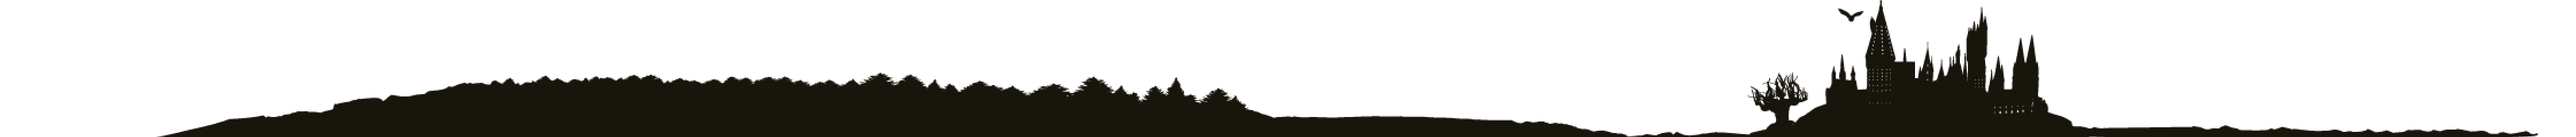
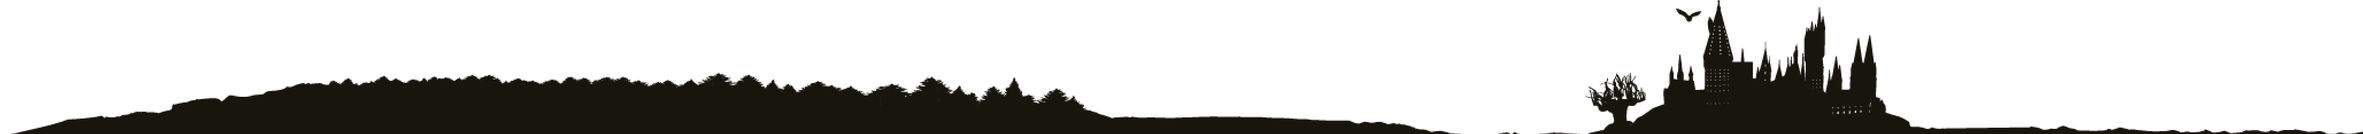
2025522

diff --git a/考试/lounge.css b/考试/lounge.css
@@ -1,66 +1,64 @@
-.image-container {
+
+
+/* .image-container {
   display: flex;
   justify-content: space-around;
   margin: 20px auto;
   max-width: 1200px;
-}
-.image-container img {
+} */
+/* .image-container img {
   width: 30%;
   height: auto;
   object-fit: contain;
   margin: 0 10px;
-}
-.main-container {
+} */
+/* .main-container {
   display: flex;
   flex-direction: column;
-  align-items: center;
-  margin: 20px auto;
   max-width: 1200px;
-}
+} */
 
-.top-image {
-  width: 180%;
-  margin-bottom: 20px;
-}
 
-.image-container {
-  display: flex;
+
+/* .image-container {
   justify-content: space-around;
   width: 100%;
-}
+  margin-left: 190px;
+  margin-bottom: 5px;
+} */
 
-.image-container img {
+/* .image-container img {
   width: 30%;
   height: auto;
   object-fit: contain;
   margin: 0 10px;
-}
-.bottom-image {
-  width: 180%;
+} */
+/* .bottom-image {
+  width: 1590px;
   margin-top: 20px;
   display: block;
-  margin-left:-520px;
+  margin-left: -10px;
   margin-right: auto;
-}
-.quizzes-text {
+} */
+/* .quizzes-text {
   font-size: 24px;
   text-align: center;
   margin: 20px 0;
   font-weight: bold;
   color: white;
-}
-.hogwarts-banner {
+} */
+/* .hogwarts-banner {
   text-align: center;
   font-size: 28px;
   font-weight: bold;
   color:white;
   margin-bottom: 15px;
   text-shadow: 1px 1px 3px rgba(0,0,0,0.2);
-}
+} */
 
-.GetSortedNow{
+/* .GetSortedNow{
   position: absolute;
-  bottom: 620px;
+  bottom: 480px;
   right: 380px;
   padding: 10px 20px;
   background-color: #5758ff;
@@ -72,8 +70,58 @@
   cursor: pointer;
   transition:all 0,3s ;
   margin: 10px;
-}
-.GetSortedNow:hover{
+} */
+/* .GetSortedNow:hover{
   background-color: #0b163b;
   border-color: #5758ff;
+} */
+/* .background {
+  background-image: url(pic/图片8.jpg);
+} */
+
+.heng {
+  /* width: 700px;
+  margin-left: 130px; 
+}
+
+.gran{
+  /* width: 70px;
+  margin-left: 280px; */
+}
+
+.la {
+  /* width: 70px;
+  margin-left: 390px;
+ margin-top: -90px; */
+}
+
+.haff {
+  /* width: 70px;
+  margin-left: 503px ;
+  margin-top: -90px; */
+}
+
+.sly {
+  /* width: 70px;
+  margin-left: 615px;
+  margin-top: -93px; */
+} 
+
+.yhn {
+  border: solid 0px;
+  padding:70px 0 0 0;
+  background-repeat: no-repeat;
+  background-position: 0 0;
+  width: 100%;
+  background-image: url(pic/图片7.jpg);
+  margin-left: 0;
+  
+}
+.top-image {
+  width: 100%;
+}
+body{
+  padding: 0px;
+  margin: 0px;
+  overflow-x: hidden;
 }

diff --git a/考试/index.html b/考试/index.html
@@ -8,19 +8,34 @@
 </head>
 <body>
     <div class="main-container">
-        <div class="hogwarts-banner">
-            What's Your<br>Hogwarts House?
+        <div class="yhn">
+            <div class="hogwarts-banner">
+                
+            WHAT'S YOUR<br>HOGWARTS HOUSE?
+        
+            </div>
+          
+            <img src="pic/图片11.svg" alt="11" class="heng">
+            <img src="pic/图片12.svg" alt="12" class="gran" width="70px">
+            
+            <img src="pic/图片9.svg" alt="9" class="la" width="70px">
+            <img src="pic/图片13.svg" alt="13" class="haff" width="70px">
+            <img src="pic/图片14.svg" alt="14" class="sly" width="70px">
+            
         </div>
-        <img src="pic/图片5.png" alt="图片5" class="top-image">      
-        <div class="quizzes-text">Quizzes</div>
+        <!-- <div class="quizzes-text">Quizzes</div>
     <div class="image-container">
         <img src="pic/图片1.png" alt="图片1">
+        <p>Magical Muggle:<br>
+        Herbology edition</p>
         <img src="pic/图片2.png" alt="图片2">
+        <p>The quickfire quiz:Horcrux<br>
+        edition</p>
         <img src="pic/图片3.png" alt="图片3">
+        <p>The Duelling Club quiz</p>
     </div>
     <img src="pic/图片4.png" alt="图片4" class="bottom-image">
-
-    <button class="GetSortedNow">Get Sorted Now</button>
+    <button class="GetSortedNow">Get Sorted Now</button> -->
 </div>
 </body>
 </html>
